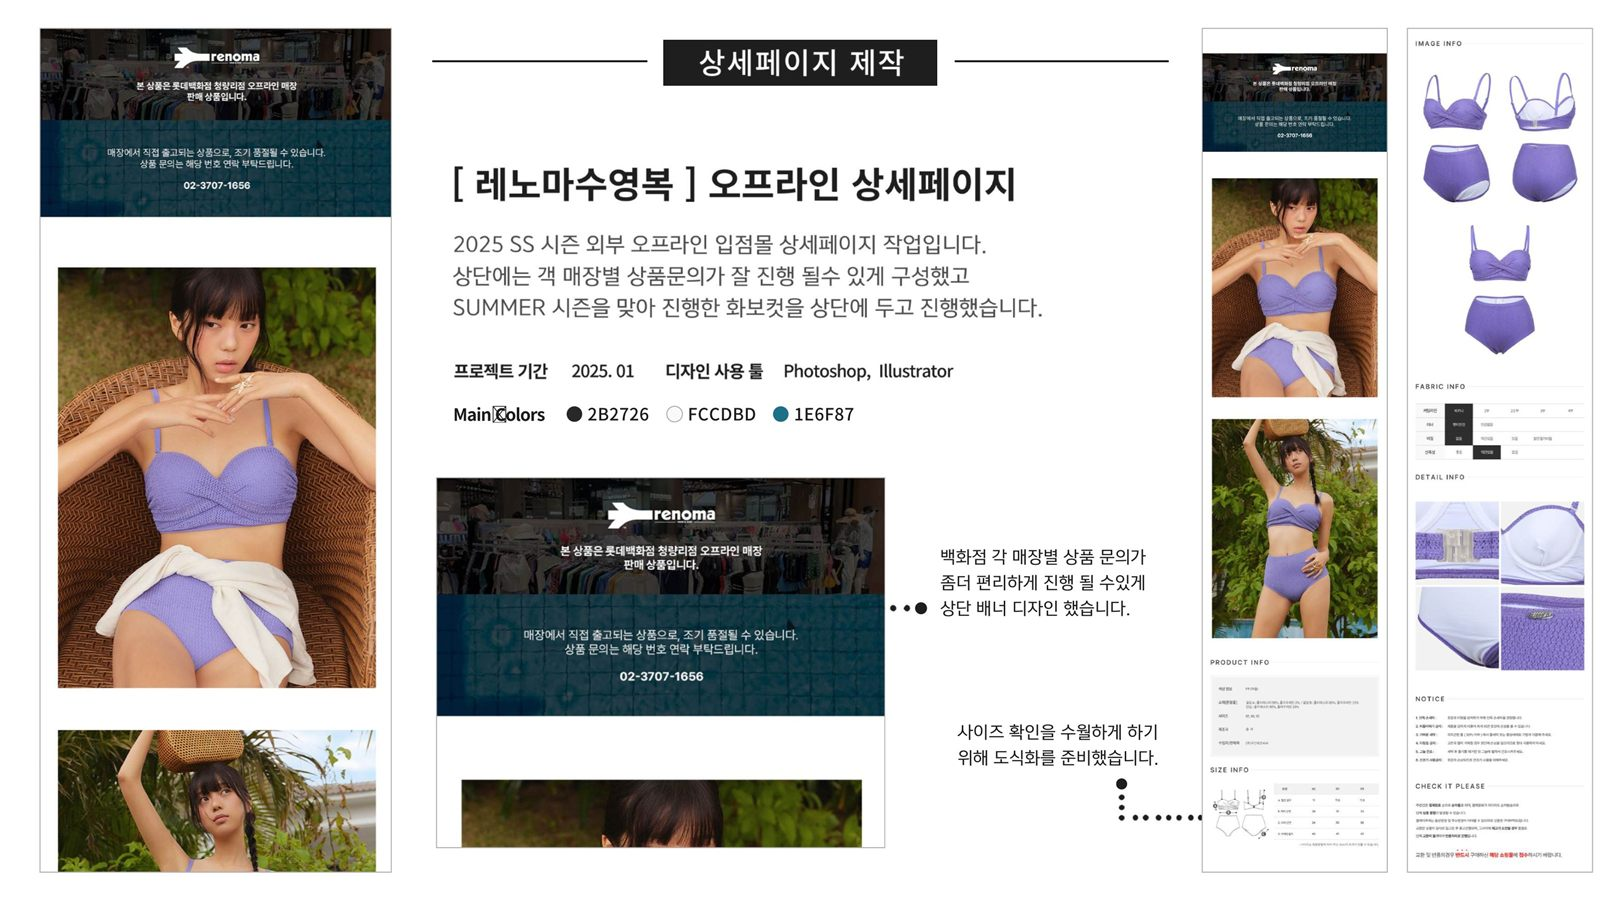
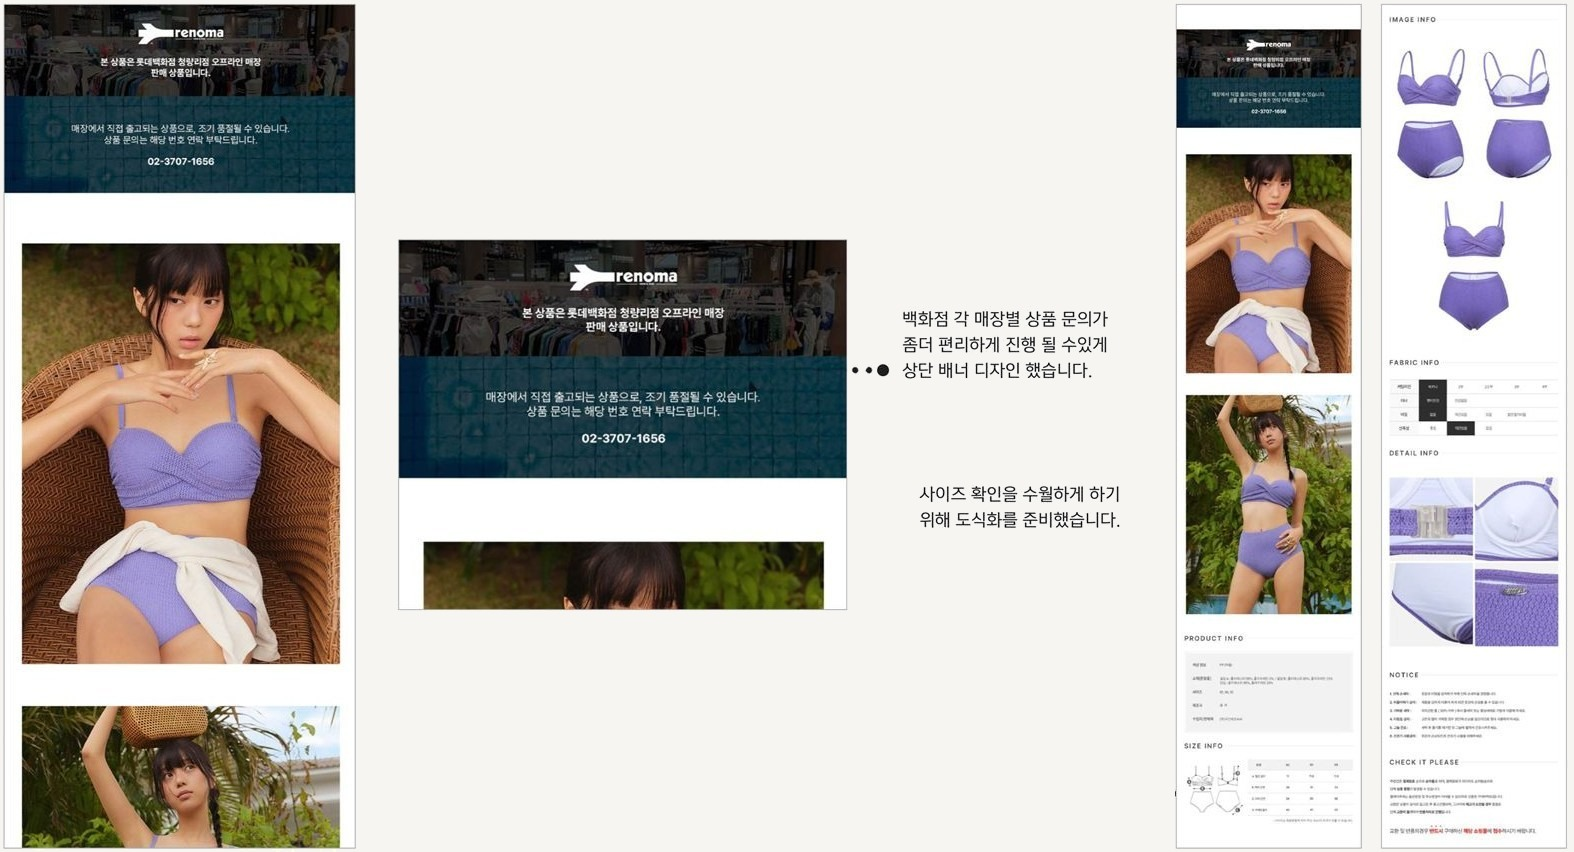
레노마 오프라인 상세페이지: 이미지 속 중복 소개 문구 제거·흰 배경을 페이지색으로, 설명 보강

diff --git a/work/renoma-swim.html b/work/renoma-swim.html
@@ -151,9 +151,9 @@
         </div>
       </article>
       <article class="pw" data-cat="detail" id="w07">
-        <header class="pw__h"><div class="pw__h-in"><span class="pw__n">07</span><p class="pw__rule"><span>웹디자이너로써</span><i></i><b>상세페이지</b><i></i><span>제작을 했습니다.</span></p><div class="pw__t"><h3><em>[ 레노마수영복 ]</em> 오프라인 상세페이지</h3><p>SUMMER 시즌 오프라인 입점용 상세페이지</p><dl class="pw__meta"><div><dt>프로젝트 기간</dt><dd>2025.01</dd></div><div><dt>Main Colors</dt><dd class="pw__chips"><i style="--c:#F8F8F8"></i>F8F8F8<i style="--c:#54524F"></i>54524F</dd></div></dl></div></div></header>
+        <header class="pw__h"><div class="pw__h-in"><span class="pw__n">07</span><p class="pw__rule"><span>웹디자이너로써</span><i></i><b>상세페이지</b><i></i><span>제작을 했습니다.</span></p><div class="pw__t"><h3><em>[ 레노마수영복 ]</em> 오프라인 상세페이지</h3><p>2025 SS 시즌 외부 오프라인 입점몰 상세페이지 · 상단에는 각 매장별 상품 문의가 잘 진행될 수 있게 구성했고, SUMMER 시즌 화보컷을 상단에 두고 진행했습니다</p><dl class="pw__meta"><div><dt>프로젝트 기간</dt><dd>2025.01</dd></div><div><dt>디자인 사용 툴</dt><dd>Photoshop, Illustrator</dd></div><div><dt>Main Colors</dt><dd class="pw__chips"><i style="--c:#F8F7F5"></i>F8F7F5<i style="--c:#A2A1A0"></i>A2A1A0</dd></div></dl></div></div></header>
         <div class="pw__body">
-          <figure class="pw__img pw__img--plan" style="--ar:1.778"><figcaption>PAGE</figcaption><img src="../images/work/renoma-08.jpg" width="1600" height="900" alt="레노마수영복 오프라인 상세페이지 작업물" loading="lazy" decoding="async"></figure>
+          <figure class="pw__img pw__img--plan" style="--ar:1.847"><figcaption>PAGE</figcaption><img src="../images/work/renoma-08.jpg" width="1574" height="852" alt="레노마수영복 오프라인 상세페이지 작업물" loading="lazy" decoding="async"></figure>
         </div>
       </article>
       <article class="pw" data-cat="detail" id="w08">
